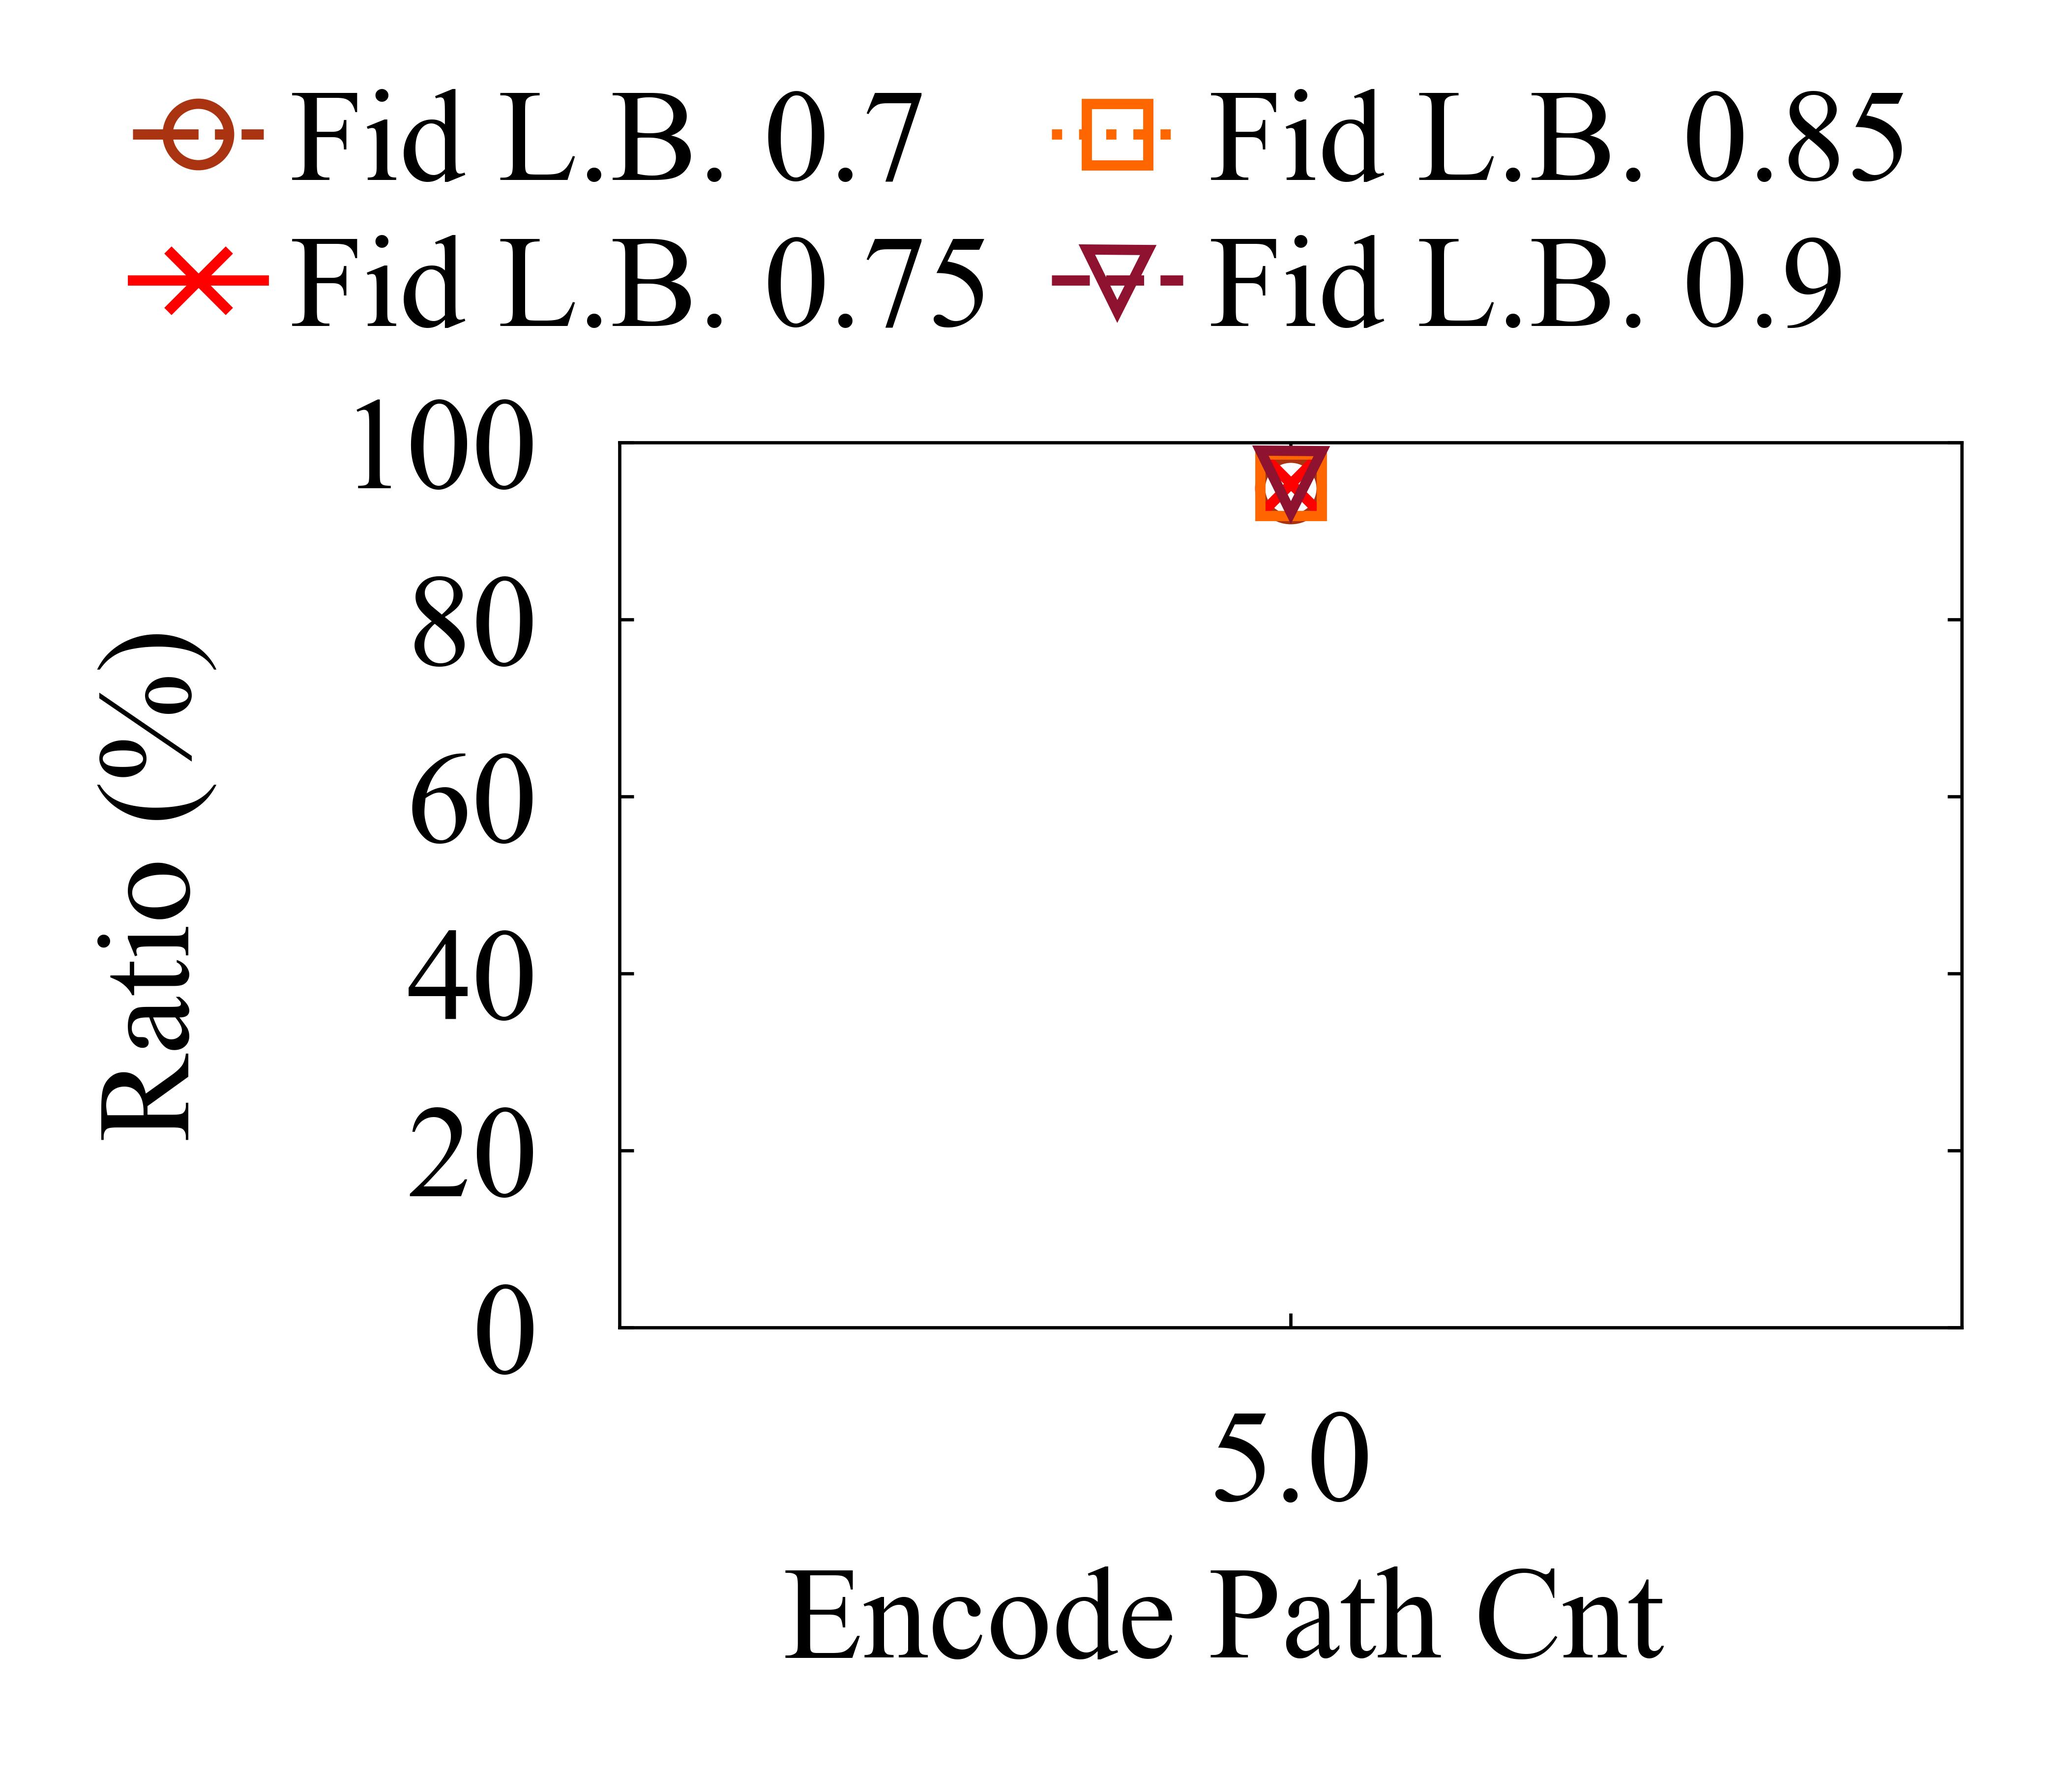
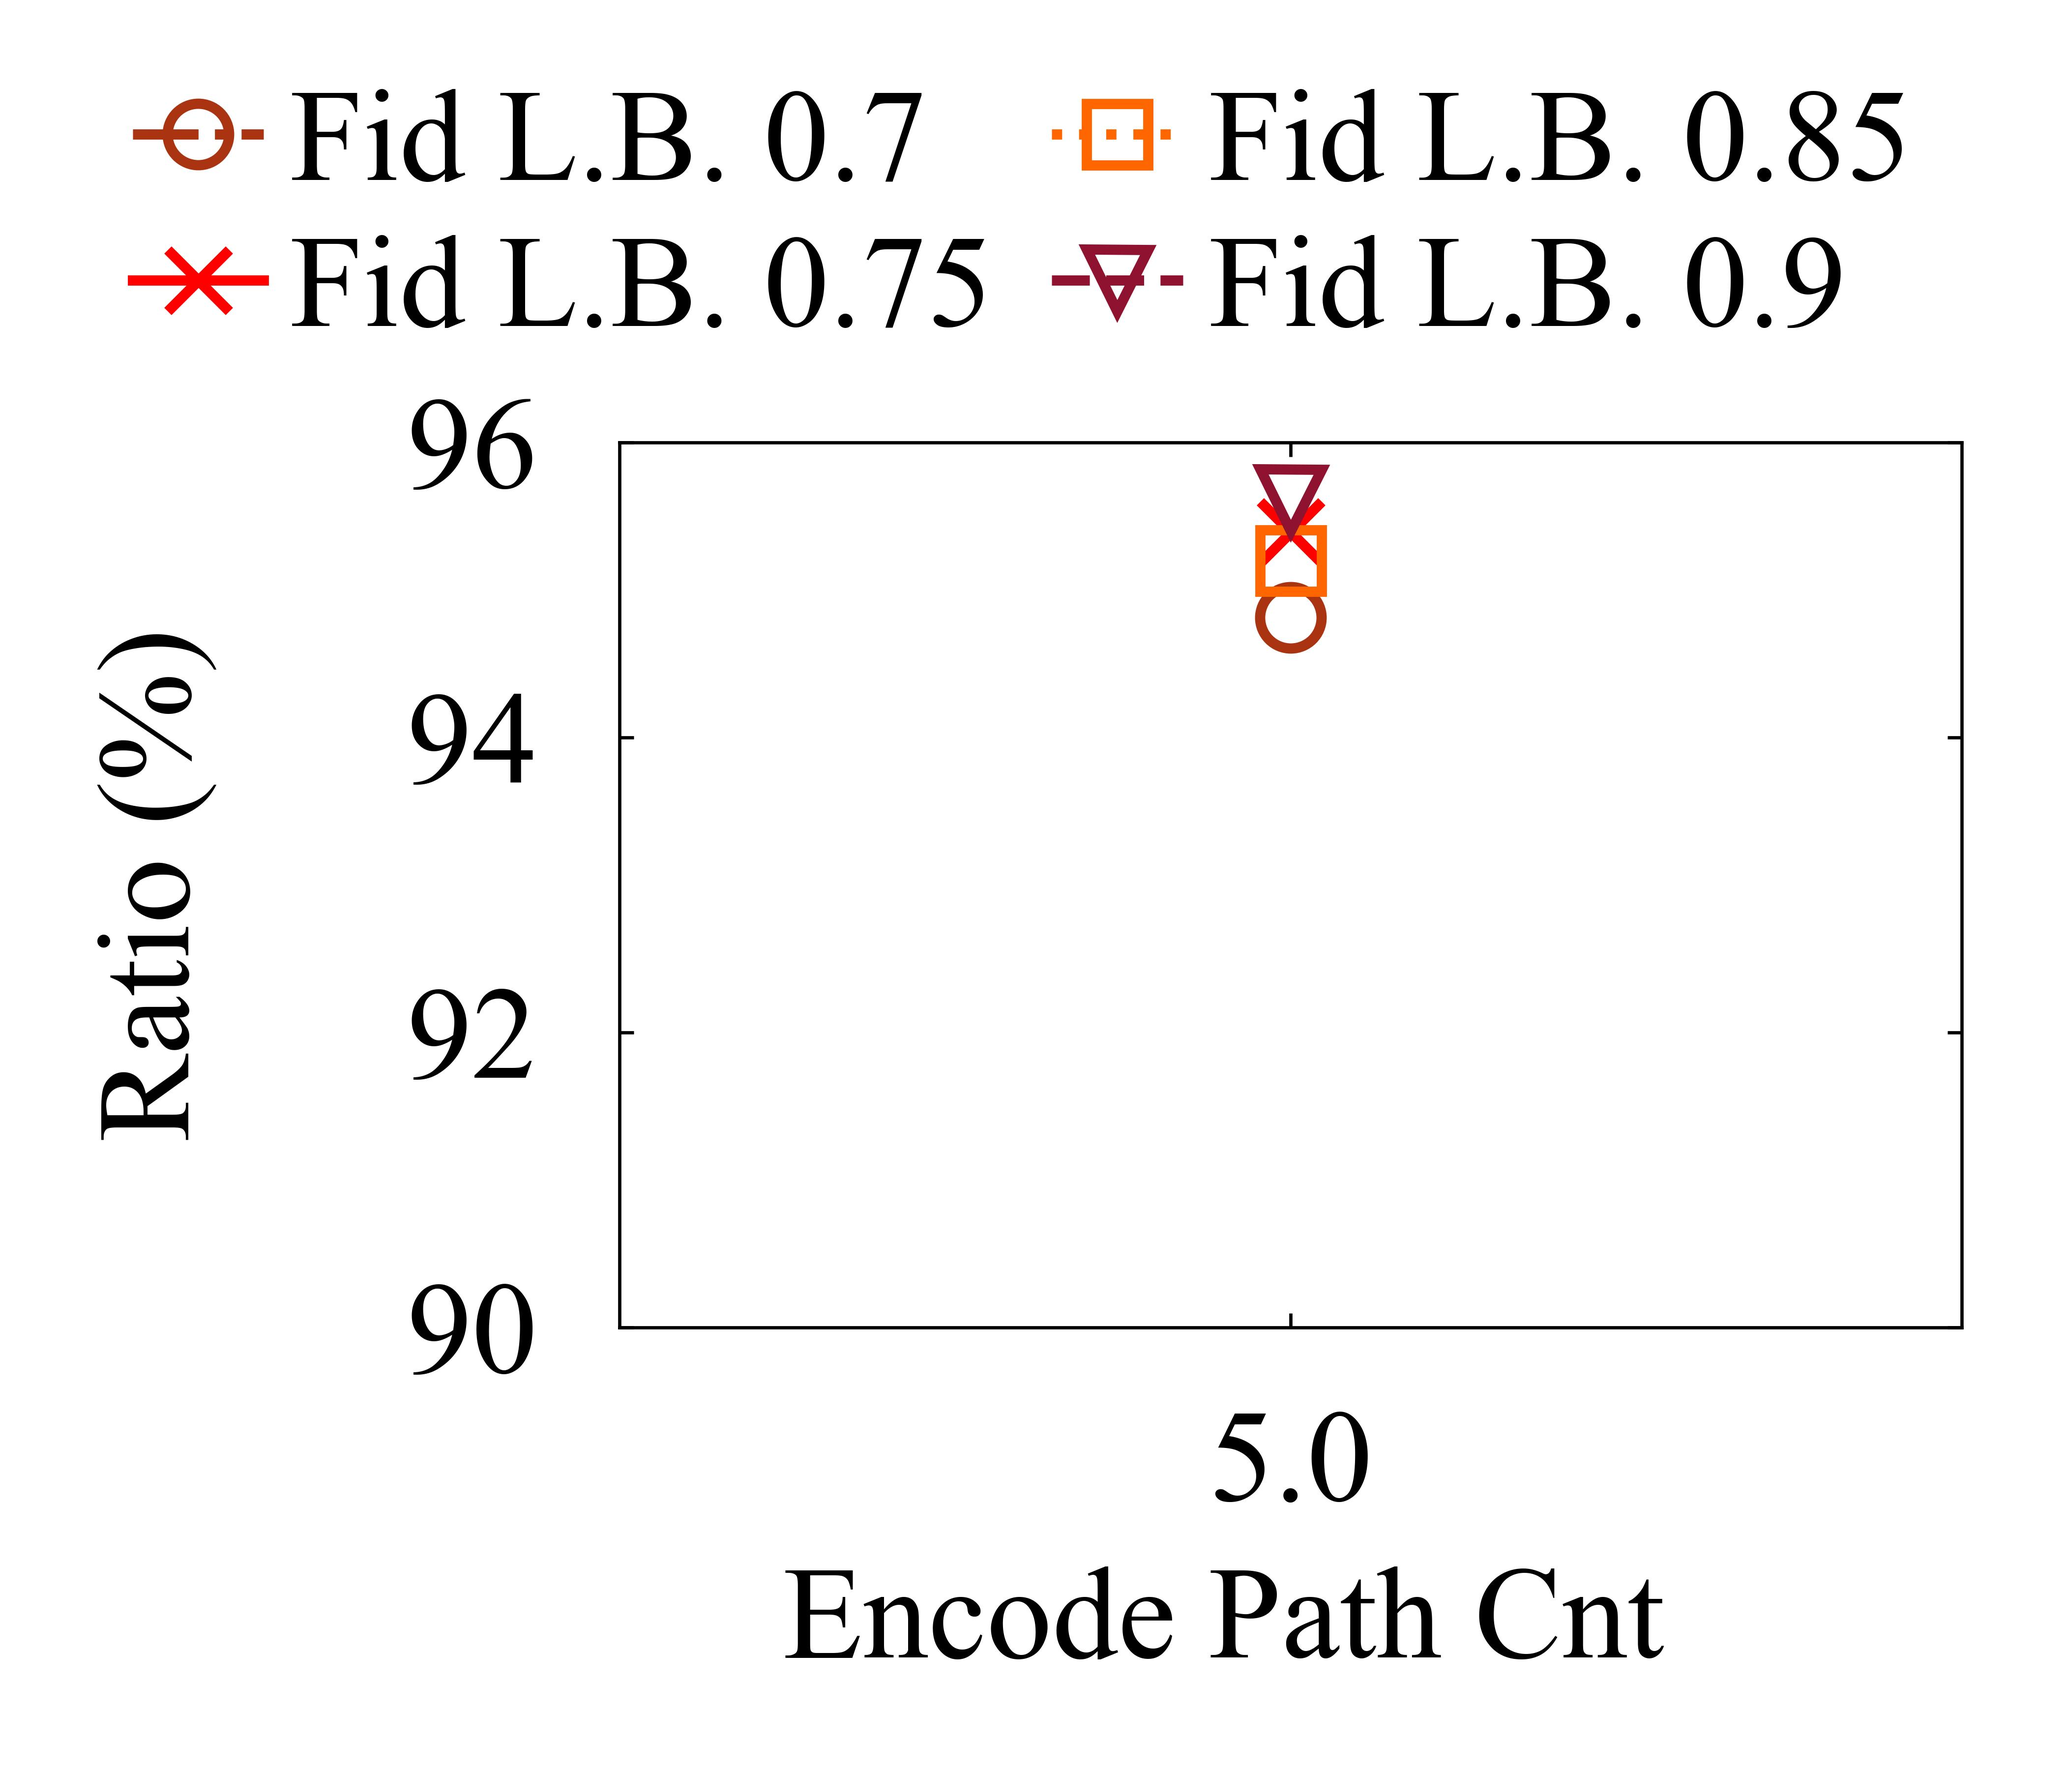
update

diff --git a/use/encode_path_ratio/ChartGenerator.py b/use/encode_path_ratio/ChartGenerator.py
@@ -136,7 +136,7 @@ class ChartGenerator:
                 minData = min(minData, y[i][j])
 
         Yend = math.ceil(maxData)
-        Ystart = 0
+        Ystart = 90
         Yinterval = (Yend - Ystart) / 5
 
         if maxData > 1.1:
